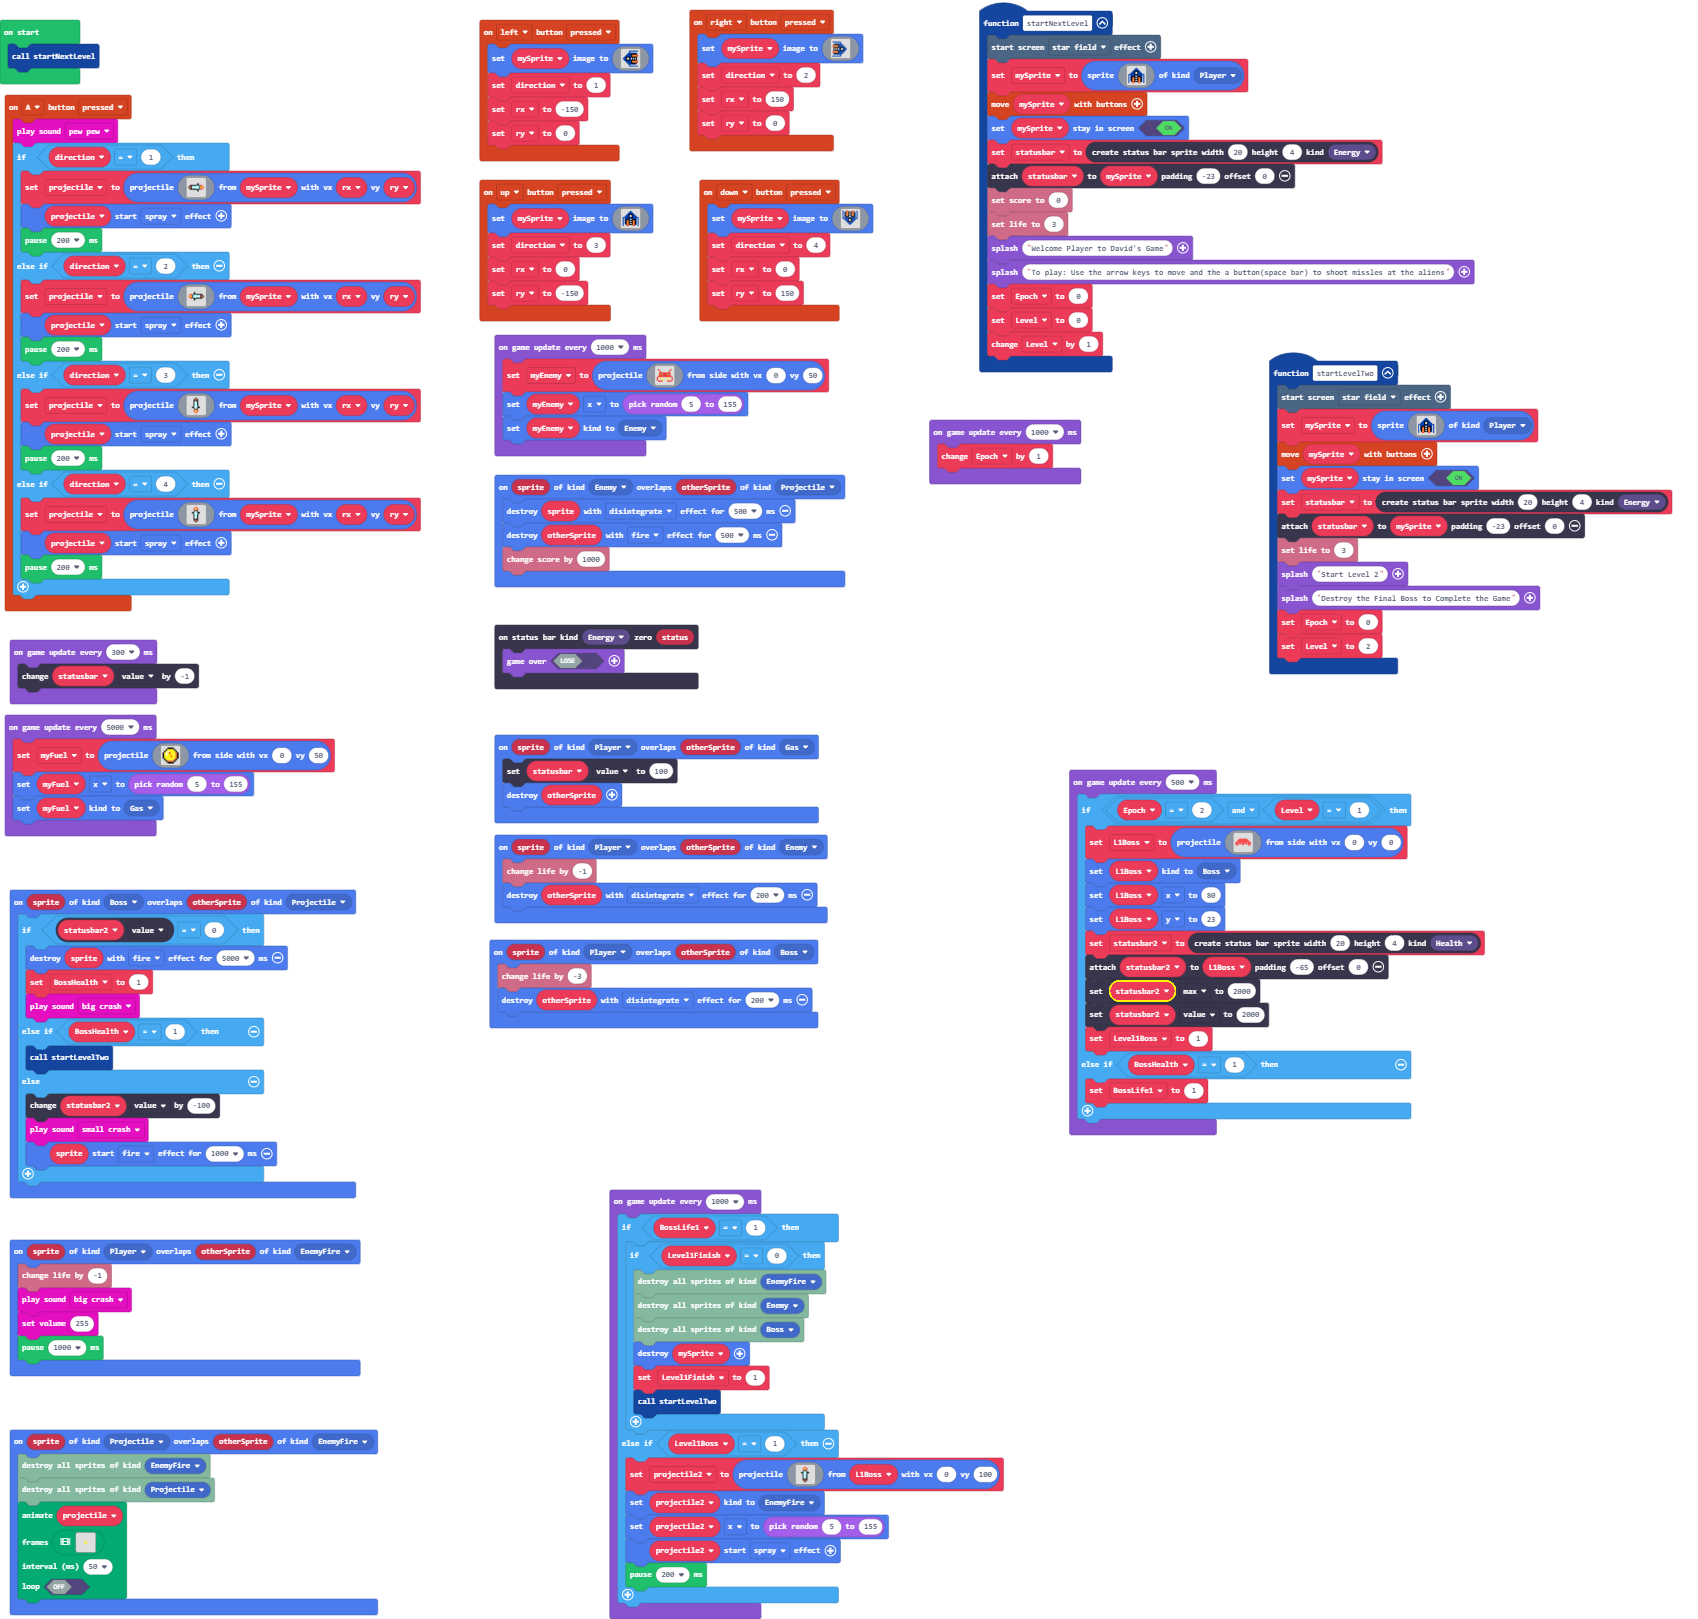
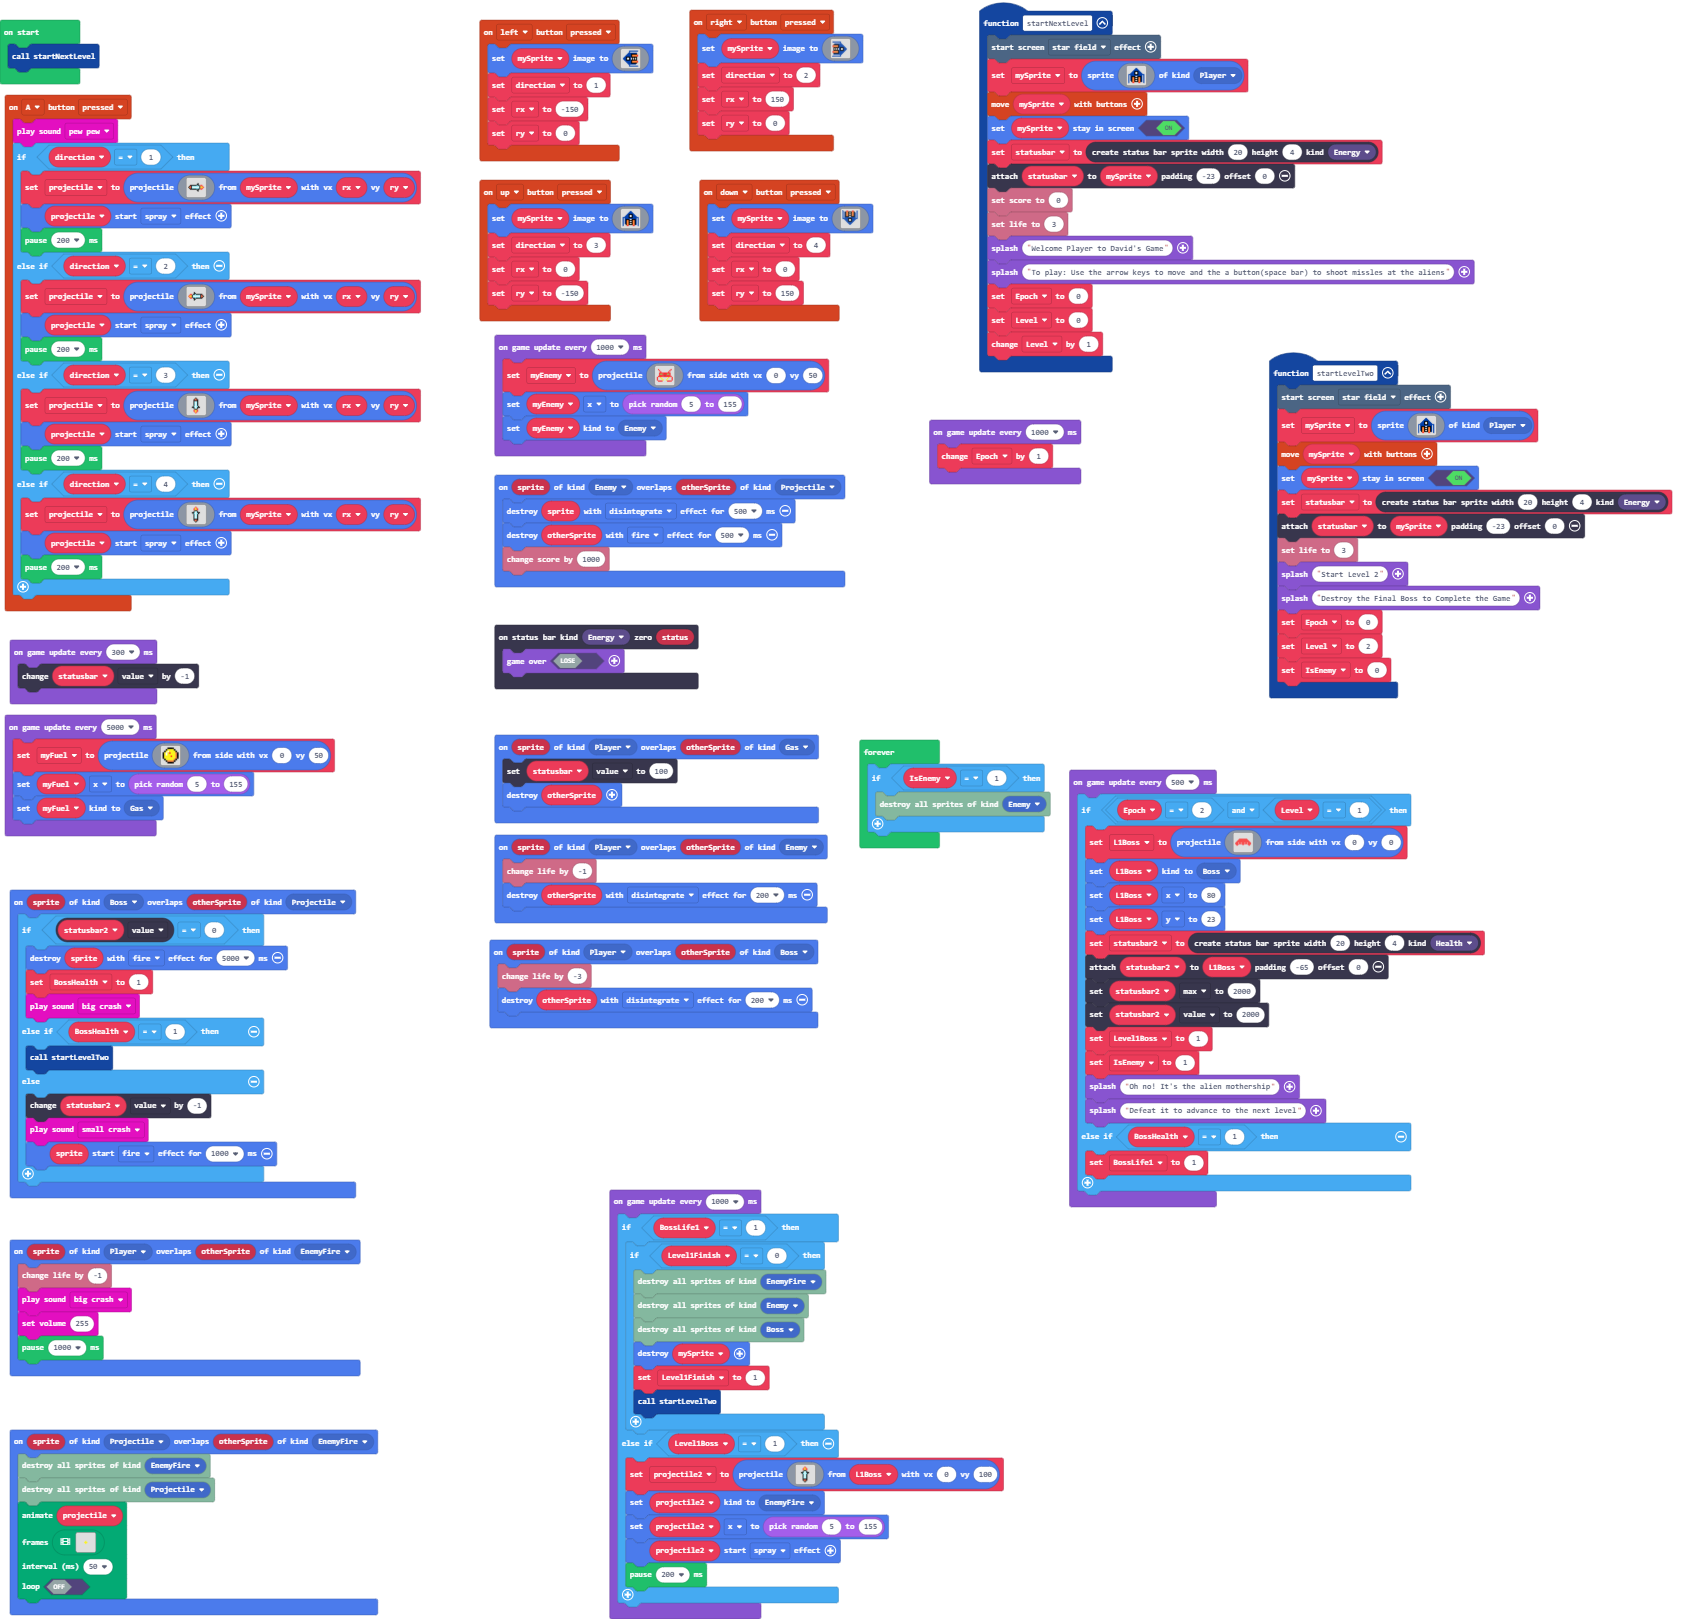
Update main.blocks, main.ts

Changed region(s): [[0.6243, 0.6485, 0.8428, 0.7721], [0.4994, 0.4324, 0.6243, 0.525], [0.7491, 0.4015, 0.8428, 0.4324]]

diff --git a/main.ts b/main.ts
@@ -338,7 +338,7 @@ sprites.onOverlap(SpriteKind.Boss, SpriteKind.Projectile, function (sprite, othe
     } else if (BossHealth == 1) {
         startLevelTwo()
     } else {
-        statusbar2.value += -100
+        statusbar2.value += -1
         music.smallCrash.play()
         sprite.startEffect(effects.fire, 1000)
     }
@@ -371,6 +371,7 @@ function startLevelTwo () {
     game.splash("Destroy the Final Boss to Complete the Game")
     Epoch = 0
     Level = 2
+    IsEnemy = 0
 }
 sprites.onOverlap(SpriteKind.Player, SpriteKind.Enemy, function (sprite, otherSprite) {
     info.changeLifeBy(-1)
@@ -387,6 +388,7 @@ let Level1Boss = 0
 let BossLife1 = 0
 let myEnemy: Sprite = null
 let myFuel: Sprite = null
+let IsEnemy = 0
 let BossHealth = 0
 let statusbar2: StatusBarSprite = null
 let Level = 0
@@ -452,6 +454,11 @@ game.onUpdateInterval(1000, function () {
         pause(200)
     }
 })
+forever(function () {
+    if (IsEnemy == 1) {
+        tiles.destroySpritesOfKind(SpriteKind.Enemy)
+    }
+})
 game.onUpdateInterval(500, function () {
     if (Epoch == 2 && Level == 1) {
         L1Boss = sprites.createProjectileFromSide(img`
@@ -510,6 +517,9 @@ game.onUpdateInterval(500, function () {
         statusbar2.max = 2000
         statusbar2.value = 2000
         Level1Boss = 1
+        IsEnemy = 1
+        game.splash("Oh no! It's the alien mothership")
+        game.splash("Defeat it to advance to the next level")
     } else if (BossHealth == 1) {
         BossLife1 = 1
     }
